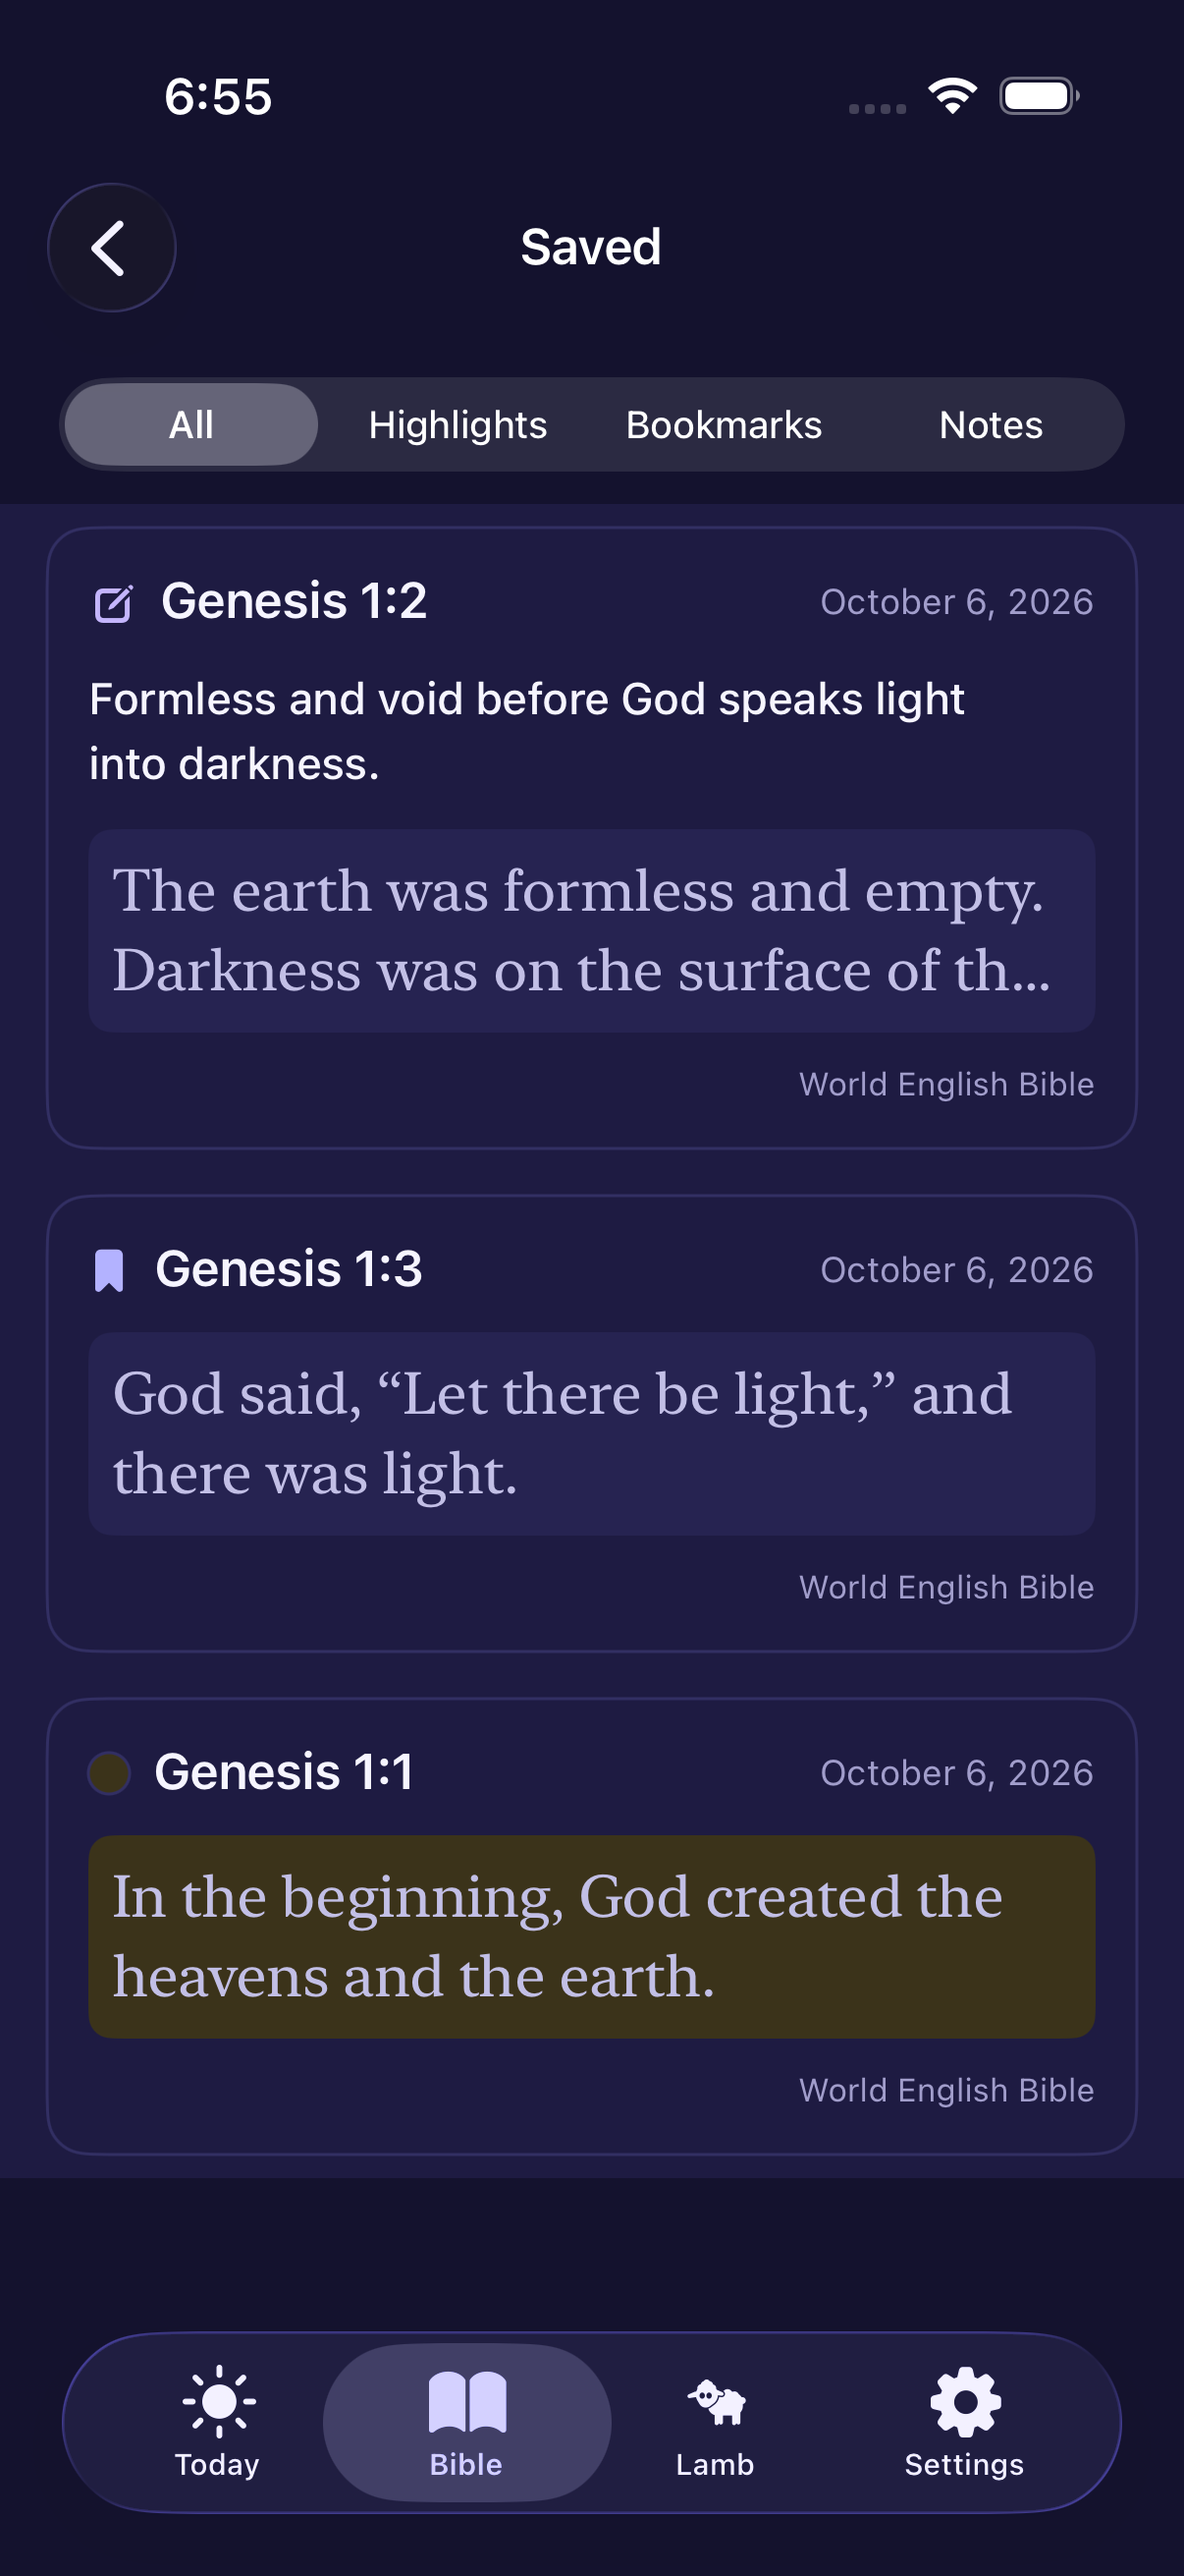
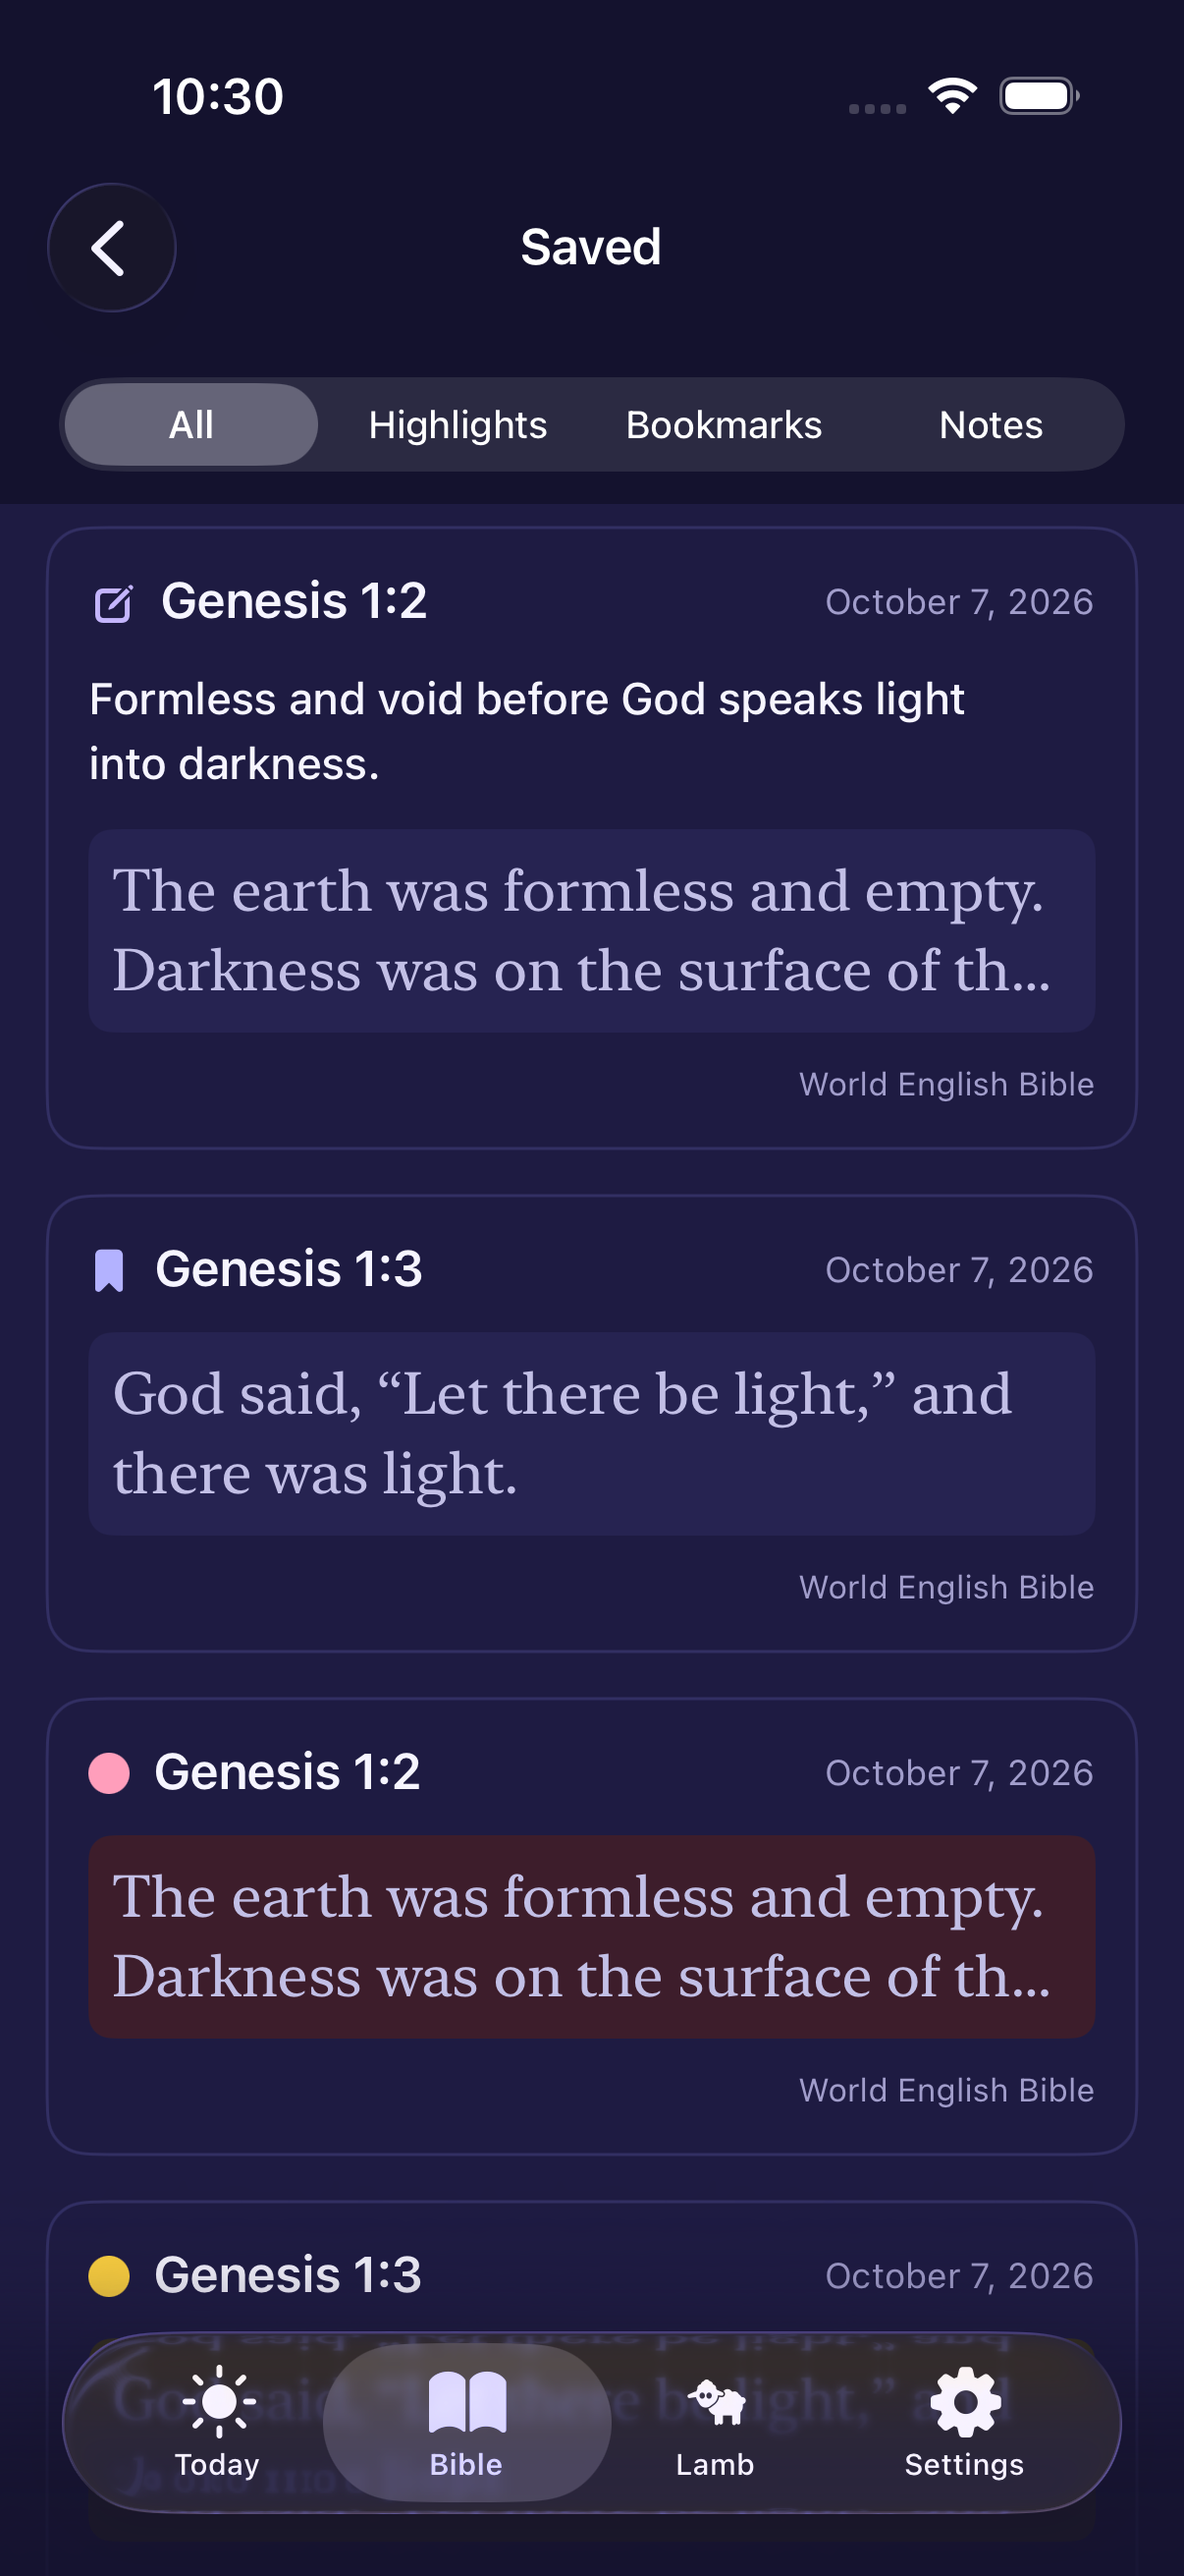
Saved list: highlight badge uses the colour's swatch; re-capture Bible screenshots
Light and dark reader, selection, highlight, note and Saved shots from the real-flow UI
test on the merged head, plus the new AX3 action-menu shots.

diff --git a/Shepherd/Views/Bible/SavedScriptureView.swift b/Shepherd/Views/Bible/SavedScriptureView.swift
@@ -304,12 +304,8 @@ private struct SavedItemRow: View {
         switch item {
         case .highlight(let h):
             Circle()
-                .fill(h.highlightColor.color)
+                .fill(h.highlightColor.swatchColor)
                 .frame(width: 14, height: 14)
-                .overlay(
-                    Circle()
-                        .stroke(ShepherdTheme.surfaceBorder, lineWidth: 1)
-                )
         case .bookmark:
             Image(systemName: "bookmark.fill")
                 .font(.system(size: 13, weight: .bold))
